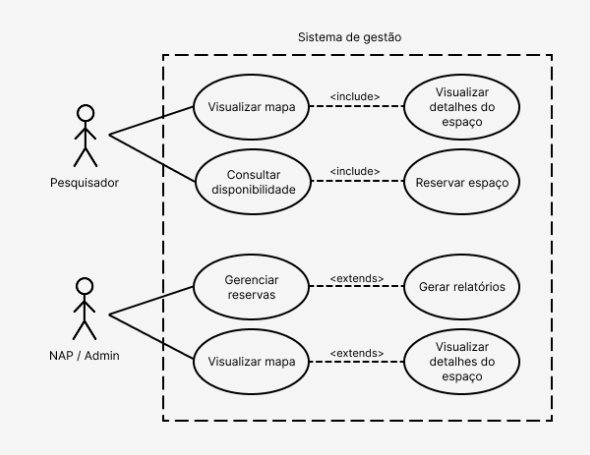
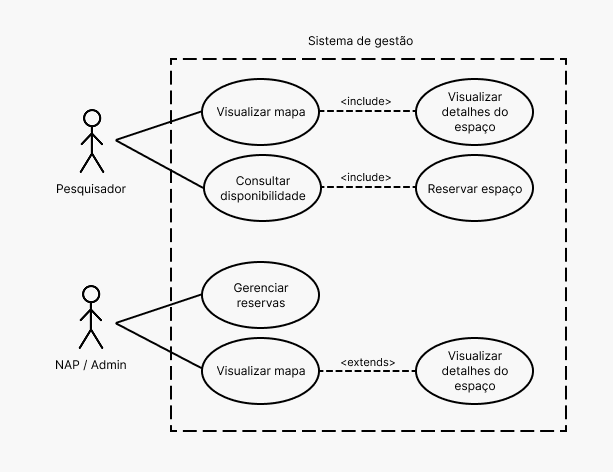
Atualização das imagens + documento de requisitos

diff --git a/Documentos Atualizados/Documento de Requisitos de software - Embrapa Cenargem_CVGWeb.md b/Documentos Atualizados/Documento de Requisitos de software - Embrapa Cenargem_CVGWeb.md
@@ -1,0 +1,209 @@
+![logo_ceub](imagens/logo_ceub.png)
+
+# Documento de Requisitos de software - Embrapa Cenargen: CVGWeb 
+
+**Centro Universitário de Brasília (CEUB)**  
+**Data:** 02/09/2026  
+**Disciplina:** Projeto Integrador IV  
+**Semestre:** 8º semestre  
+
+**Professor/Orientador:** Tiago Leite Pereira
+
+### Alunos
+
+- Felipe Tolentino Soares
+- Lucas Daniel Paiva de Sá
+- Luis Guilherme Andrade Palhares de Melo
+- Miguel Artur de Castro Miranda
+- Lucas Andrade Fonseca
+
+![logo_embrapa](imagens/logo_embrapa.png)
+
+---
+
+## Sumário
+
+1. [Introdução](#1-introdução)
+2. [Descrição Geral](#2-descrição-geral)
+3. [Requisitos do Sistema](#3-requisitos-do-sistema)
+4. [Regras de Negócio](#4-regras-de-negócio)
+5. [Considerações Finais](#5-considerações-finais)
+6. [Referências](#6-referências)
+
+# 1. Introdução
+
+## 1.1 Propósito
+
+Este documento, desenvolvido no contexto da disciplina **Projeto Integrador IV** do Centro Universitário de Brasília (CEUB), tem como objetivo especificar os requisitos do **Sistema de Gestão de Campos Experimentais da Embrapa Cenargen – CVGWeb**.
+
+O documento servirá como referência para as etapas de desenvolvimento, validação, implementação e testes da solução proposta.
+
+## 1.2 Escopo
+
+O sistema será desenvolvido como uma aplicação web destinada ao gerenciamento da utilização de campos experimentais e casas de vegetação da Embrapa Cenargen.
+
+A solução deverá possibilitar a organização do uso desses espaços, contemplando o cadastro de pesquisadores e projetos de pesquisa, o registro e acompanhamento de reservas, a consulta da disponibilidade dos ambientes e a geração de informações que possam apoiar o processo de gestão da infraestrutura experimental.
+
+## 1.3 Definições, Acrônimos e Abreviações
+
+Para fins deste documento, entende-se por **campo experimental** e **casa de vegetação** os espaços destinados à realização de atividades experimentais e de pesquisa.
+
+O termo **NAP** refere-se ao **Núcleo de Apoio à Pesquisa**, responsável pela organização e acompanhamento da utilização dos espaços experimentais.
+
+## 1.5 Visão Geral
+
+Este documento está organizado em seções que apresentam a descrição geral do sistema, os usuários envolvidos, as principais funcionalidades, as restrições e dependências, os requisitos funcionais e não funcionais, as regras de negócio e as considerações finais do projeto.
+
+---
+
+# 2. Descrição Geral
+
+## 2.1 Perspectiva do Produto
+
+O sistema será desenvolvido como uma aplicação web acessível por meio de navegadores. A solução será composta por uma camada de apresentação, responsável pela interação com os usuários, uma camada de aplicação, responsável pelo processamento das regras e funcionalidades, e uma camada de persistência destinada ao armazenamento das informações em banco de dados.
+
+## 2.1.1 Representação Funcional do Sistema
+
+A representação funcional do sistema poderá ser apresentada por meio de um **diagrama de casos de uso**, contemplando as principais interações entre os diferentes perfis de usuários e as funcionalidades disponibilizadas pela aplicação.
+
+![diagrama_casos_de_uso](imagens/diagrama_casos_de_uso.png)
+
+## 2.2 Usuários do Sistema
+
+### Pesquisadores
+
+Responsáveis pela realização de experimentos científicos e pela solicitação de utilização dos campos experimentais e casas de vegetação.
+
+### Equipe do Núcleo de Apoio à Pesquisa (NAP)
+
+Responsável pela organização, controle e acompanhamento da utilização dos espaços experimentais.
+
+### Gestores/Administradores
+
+Responsáveis pelo acompanhamento da utilização da infraestrutura e pela análise das informações disponibilizadas pelo sistema.
+
+## 2.3 Funcionalidades Principais
+
+O sistema deverá disponibilizar, entre outras, as seguintes funcionalidades:
+
+* Visualização dos espaços experimentais;
+* Consulta da disponibilidade dos espaços;
+* Cadastro de pesquisadores;
+* Cadastro de projetos de pesquisa;
+* Cadastro e gerenciamento de espaços experimentais;
+* Registro de reservas;
+* Visualização e acompanhamento das reservas realizadas;
+
+## 2.4 Restrições
+
+* O sistema será desenvolvido como um **protótipo acadêmico** no âmbito da disciplina Projeto Integrador IV;
+* Nesta versão, não estão previstas integrações com sistemas externos;
+* O acesso ao sistema será realizado exclusivamente por meio de navegador web;
+* Os dados necessários ao funcionamento da aplicação serão inseridos e gerenciados pelos usuários autorizados.
+
+## 2.5 Assunções e Dependências
+
+* Os usuários deverão possuir acesso a um dispositivo compatível com navegador web;
+* As informações necessárias para os cadastros deverão ser fornecidas pelos responsáveis pelo uso do sistema;
+* A solução será utilizada em ambiente controlado para fins acadêmicos e de validação do protótipo;
+* O funcionamento adequado do sistema dependerá da disponibilidade da infraestrutura necessária para sua execução.
+
+---
+
+# 3. Requisitos do Sistema
+
+## 3.1 Requisitos Funcionais
+
+### RF01 — Visualizar espaços
+
+O sistema deve permitir a visualização dos campos experimentais e das casas de vegetação de forma organizada, apresentando as informações necessárias para sua identificação.
+
+### RF02 — Consultar disponibilidade
+
+O sistema deve permitir a consulta da disponibilidade dos espaços considerando períodos específicos.
+
+### RF03 — Cadastrar pesquisadores
+
+O sistema deve permitir o cadastro, a edição e a remoção das informações dos pesquisadores.
+
+### RF04 — Cadastrar projetos
+
+O sistema deve permitir o cadastro, a edição e o gerenciamento das informações referentes aos projetos de pesquisa.
+
+### RF05 — Cadastrar espaços experimentais
+
+O sistema deve permitir o cadastro e a manutenção das informações referentes aos espaços experimentais disponíveis.
+
+### RF06 — Registrar reservas
+
+O sistema deve permitir o registro de reservas associando um pesquisador, um projeto, um espaço experimental e um período de utilização.
+
+### RF07 — Visualizar reservas
+
+O sistema deve permitir a visualização das reservas realizadas, possibilitando o acompanhamento da ocupação dos espaços.
+
+---
+
+## 3.2 Requisitos Não Funcionais
+
+### RNF01 — Usabilidade
+
+O sistema deve apresentar uma interface simples, clara e de fácil utilização, considerando os diferentes perfis de usuários previstos.
+
+### RNF02 — Desempenho
+
+O sistema deve responder às ações realizadas pelos usuários em tempo adequado, proporcionando uma experiência satisfatória durante a utilização.
+
+### RNF03 — Segurança
+
+O sistema deve implementar mecanismos básicos de controle de acesso e preservar a integridade das informações armazenadas.
+
+### RNF04 — Disponibilidade
+
+O sistema deverá permanecer disponível durante os períodos destinados à utilização e avaliação do protótipo acadêmico.
+
+### RNF05 — Manutenibilidade
+
+O sistema deve ser estruturado de forma organizada, favorecendo a manutenção, a correção de problemas e a evolução futura da solução.
+
+---
+
+# 4. Regras de Negócio
+
+### RN01
+
+Um espaço experimental não poderá ser reservado por mais de um pesquisador durante o mesmo período.
+
+### RN02
+
+Toda reserva deverá estar associada a um projeto de pesquisa.
+
+### RN03
+
+Um pesquisador deverá estar vinculado a pelo menos um projeto de pesquisa.
+
+### RN04
+
+A disponibilidade de um espaço deverá ser atualizada após o registro de uma reserva.
+
+---
+
+# 5. Considerações Finais
+
+O **Sistema de Gestão de Campos Experimentais da Embrapa Cenargen – CVGWeb** proposto neste documento tem como finalidade contribuir para a organização, o controle e o acompanhamento da utilização dos espaços destinados às atividades experimentais.
+
+No contexto acadêmico do **Projeto Integrador IV**, a especificação apresentada estabelece uma referência para o desenvolvimento e a avaliação da solução, permitindo que as funcionalidades e características esperadas sejam verificadas de maneira estruturada.
+
+---
+
+# 6. Referências
+
+* **EMBRAPA – Empresa Brasileira de Pesquisa Agropecuária.**
+  Disponível em: https://www.embrapa.br
+  Acesso em: 02 set. 2026.
+
+* **EMBRAPA Recursos Genéticos e Biotecnologia (Cenargen).**
+  Disponível em: https://www.embrapa.br/recursos-geneticos-e-biotecnologia
+  Acesso em: 02 set. 2026.
+
+* **IEEE.** Prática Recomendada Para Especificações de Exigências de Software (IEEE 830).

diff --git a/Documentos Atualizados/Documento de Visão - Embrapa Cenargem_CVGWeb.md b/Documentos Atualizados/Documento de Visão - Embrapa Cenargem_CVGWeb.md
@@ -1,6 +1,4 @@
-<p align="center">
-  <img width="200" height="200" alt="image" src="https://github.com/user-attachments/assets/227983be-5ccd-4f52-9757-c3374984d00d" />
-</p>
+![logo_ceub](imagens/logo_ceub.png)
 
 # Documento de Visão - Embrapa Cenargen: CVGWeb 
 
@@ -19,9 +17,7 @@
 - Miguel Artur de Castro Miranda
 - Lucas Andrade Fonseca
 
-<p align="center">
-  <img width="279" height="214" alt="image" src="https://github.com/user-attachments/assets/87016265-0975-4bcd-ba32-23aa73e456a6" />
-</p>
+![logo_embrapa](imagens/logo_embrapa.png)
 
 ---
 
